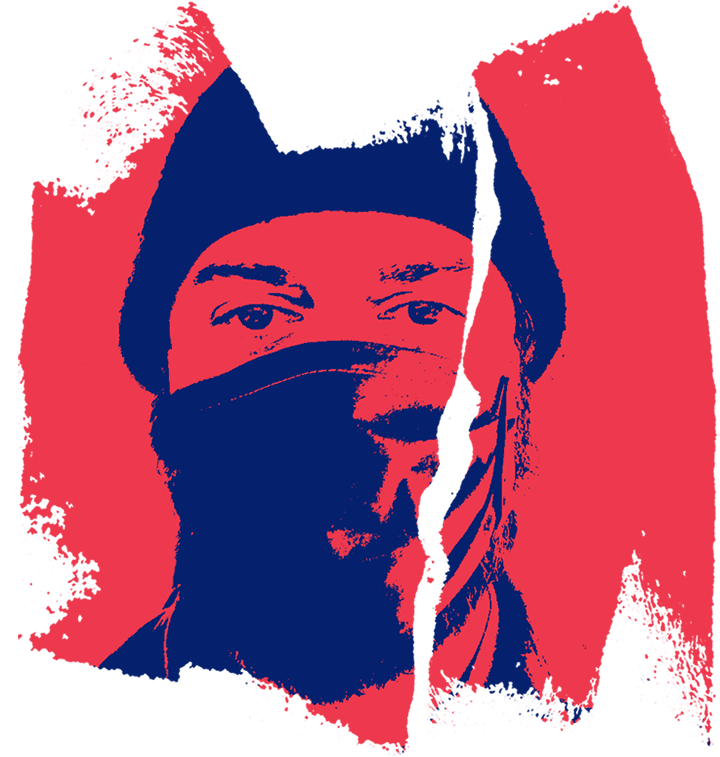
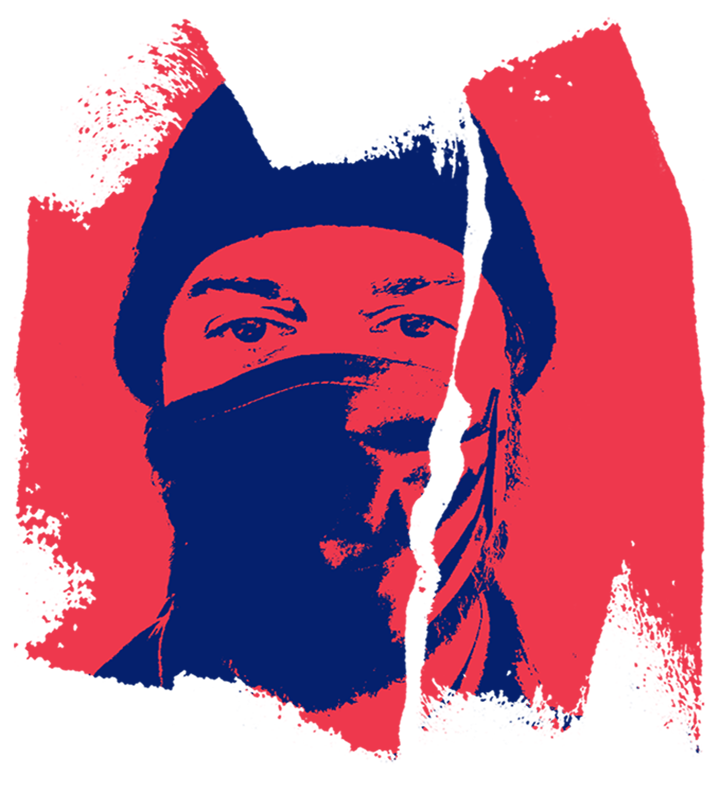
Switch index image on hover

diff --git a/_sass/_layout.scss b/_sass/_layout.scss
@@ -110,11 +110,18 @@ nav.site-nav {
 }
 
 .about-image {
-    background-image: url(../assets/images/header.gif);
+    background: url(../assets/images/header.png);
     height: calc(100%);
+    width: 50%;
+    margin: 0 auto;
     //background-attachment: fixed;
     background-position: center;
     background-repeat: no-repeat;
+
+    &:hover {
+        background: url(../assets/images/header-switch.png) no-repeat;
+        background-position: center;
+    }
 }
 
 @media only screen and (max-width: 1300px) {
